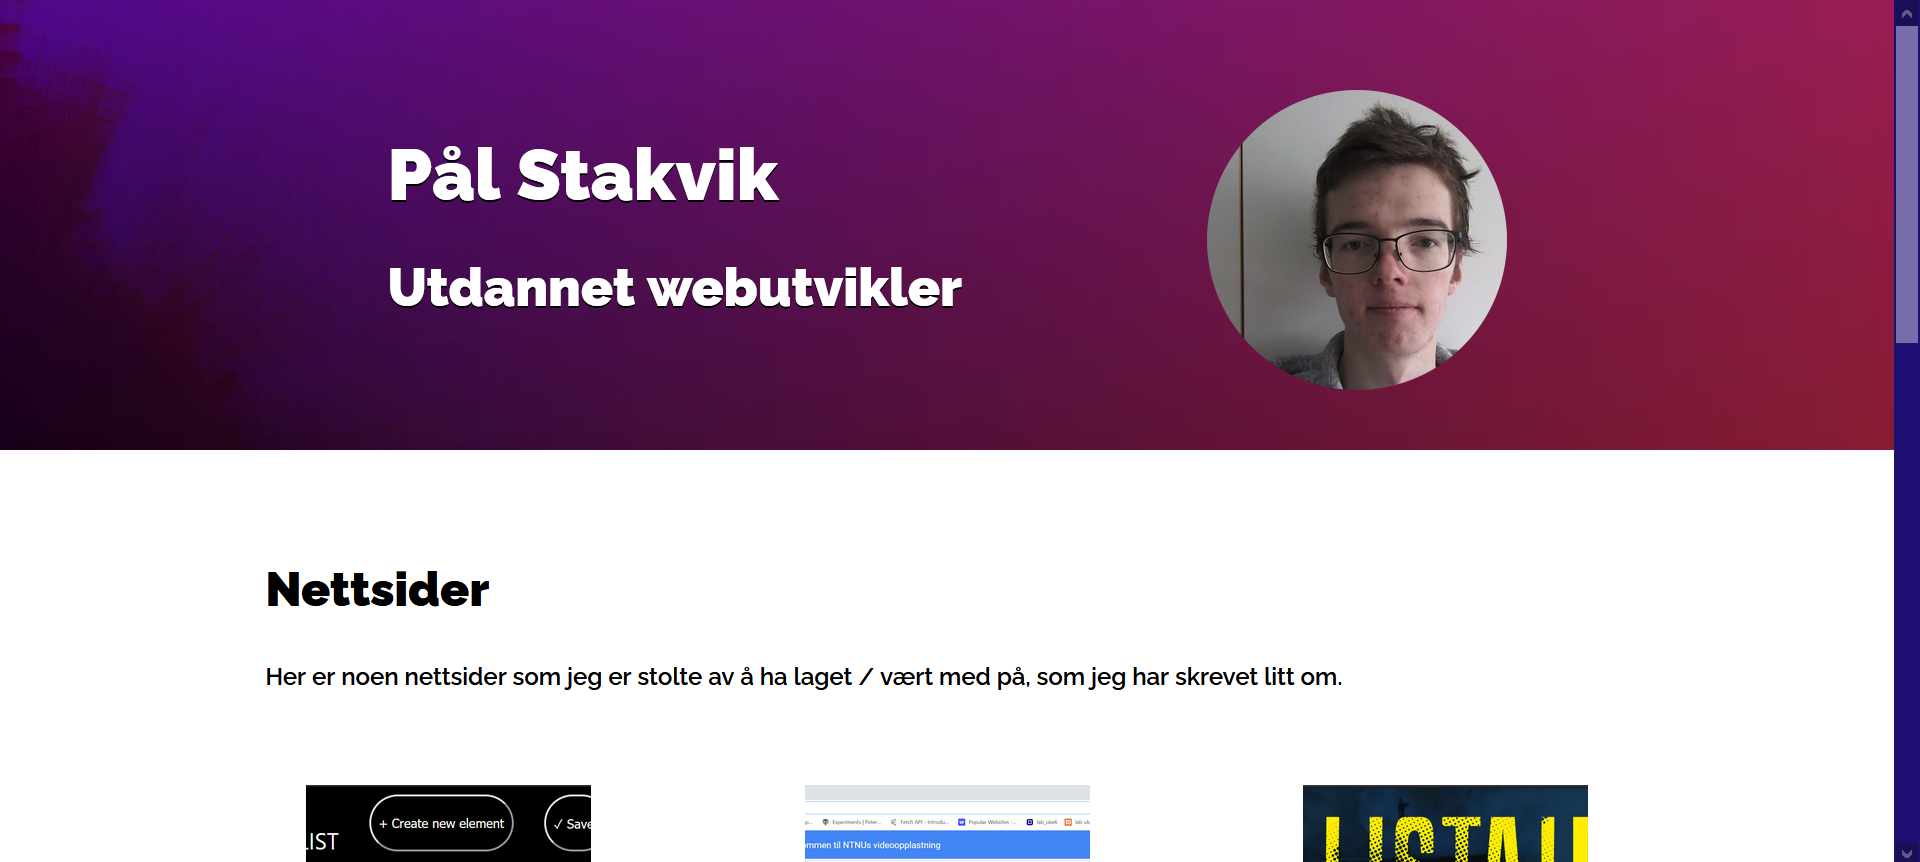
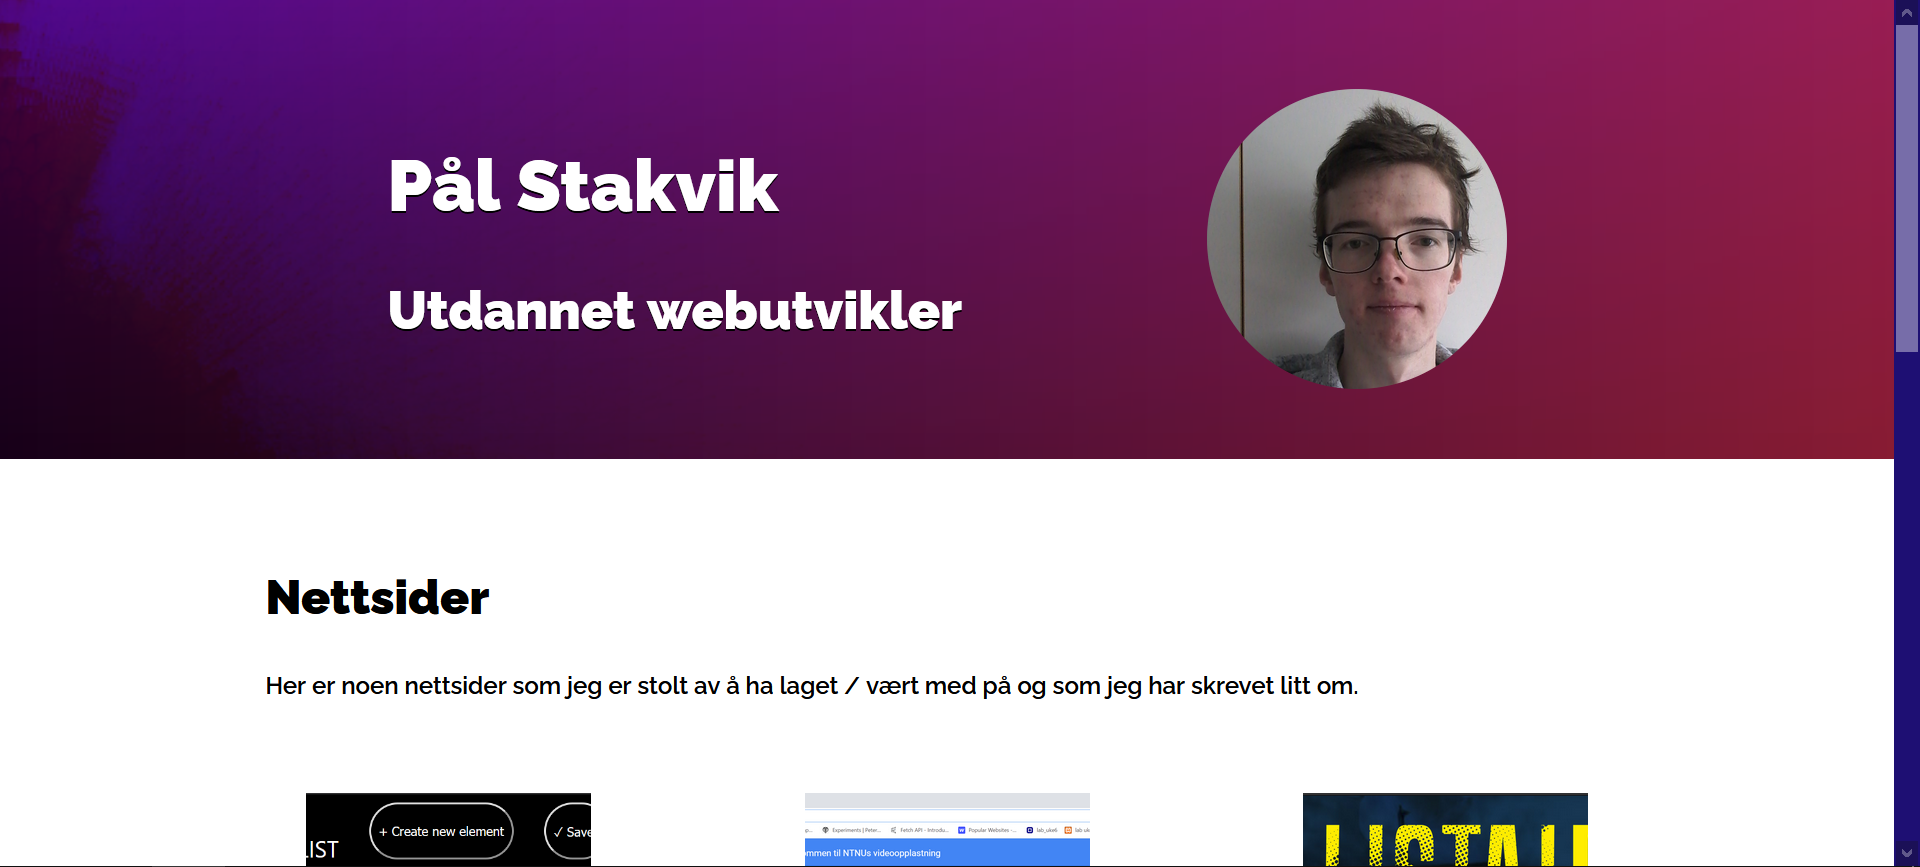
retter opp styling slik at h1 på mobil ikke stikker ut av skjermbredden (og legger til horisontal scrolling på siden).

diff --git a/style.css b/style.css
@@ -28,7 +28,7 @@
   /* ––––––––––––––––––––– Type ––––––––––––––––––––– */
   h1 {
     margin: 0;
-    font-size: 3rem;
+    font-size: 2.5rem;
     font-weight: 900;
     line-height: 3rem;
   }
@@ -230,7 +230,7 @@
     display: inline-block;
     color: #fff;
     text-decoration: none;
-    margin: 0 3px;
+    margin: 4px 3px;
     padding: 12px 24px;
     border-radius: 10px;
   }
@@ -299,7 +299,8 @@
   footer ul li .text {
     text-decoration: underline;
     display: inline-block;
-    width: 190px; /* må justeres etter å kunne romme den bredeste teksten */
+    width: 190px;
+    /* må justeres etter å kunne romme den bredeste teksten */
     color: #fff;
     /*nok til å fylle hele kontaktbredden*/
   }
@@ -324,6 +325,9 @@
   body>* {
     padding-left: 14%;
     padding-right: 14%;
+  }
+  h1 {
+    font-size: 3rem;
   }
   .index header .circle-frame {
     margin-top: -40px;

diff --git a/webWork/videoopplasting.html b/webWork/videoopplasting.html
@@ -20,7 +20,7 @@
   <nav></nav>
   <main>
     <div class="container">
-      <h2>To studieproskekter, våren 2020</h2>
+      <h2>To studie&shy;proskekter, våren 2020</h2>
       <p>Våren 2020, i WWW-teknologi, hadde vi to prosjekter hvor vi skulle lage nettapplikasjoner for videoopplasting
         og -visning. Det som skilte prosjektene var verktøyene vi skulle bruke og noe av kravspesifikasjonen.</p>
       <p>Begge nettappene skulle gi brukere til å: laste opp videoer, se på dem, legge et interaktivt transkript
